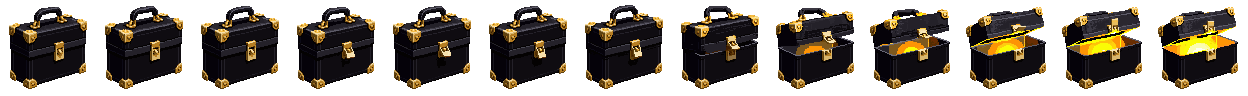
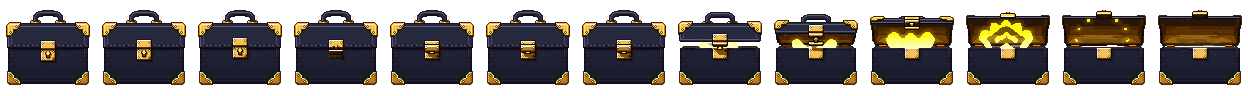
MAFIA 2 lab: case film v2 (front-facing case, light in front of the lid, solid chunky effects, full screen)

diff --git a/mafia2-lab/index.html b/mafia2-lab/index.html
@@ -122,17 +122,14 @@ h2 img.ic,h3 img.ic{vertical-align:-6px;margin-right:8px}
 .odds{margin-top:6px;display:flex;flex-wrap:wrap;gap:4px}.odds .rar{font-size:10px;padding:1px 4px}
 #caseItems{display:flex;flex-wrap:wrap;gap:4px;margin-top:8px}
 #caseItems img{width:36px;height:36px;image-rendering:pixelated;border:2px solid var(--rc);border-radius:4px;background:#fff6df}#caseItems img.lock{filter:brightness(.3)}
-#reelBox{display:none;position:absolute;left:12px;right:12px;top:21%;overflow:hidden;height:86px;border:3px solid var(--ink);border-radius:5px;background:#1a1430;z-index:3;box-shadow:0 0 0 3px #ffd25e,0 0 46px 12px rgba(255,205,90,.5)}
+#reelBox{display:none;position:absolute;left:12px;right:12px;top:21%;overflow:hidden;height:86px;border:3px solid var(--ink);border-radius:5px;background:#1a1430;z-index:3;box-shadow:0 0 0 3px #ffd25e,0 0 0 6px #1a1430,0 8px 0 6px #0b0918}
 #reelBox.on{animation:cfReel .5s cubic-bezier(.2,.9,.3,1)}
-@keyframes cfReel{0%{opacity:0;transform:translateY(90px) scaleX(.15)}100%{opacity:1;transform:none}}
-#caseFx{position:absolute;inset:0;z-index:29;display:none;overflow:hidden;background:#05040c;cursor:pointer}
+@keyframes cfReel{0%{transform:translateY(70px) scale(.2)}70%{transform:translateY(-6px) scale(1.04)}100%{transform:none}}
+#caseFx{position:fixed;inset:0;z-index:29;display:none;overflow:hidden;background:#3a3270;cursor:pointer}
 #caseFx.on{display:block;animation:cfIn .3s ease-out}
 @keyframes cfIn{0%{opacity:0}100%{opacity:1}}
-#caseCv{position:absolute;inset:0;width:100%;height:100%;image-rendering:pixelated;transform-origin:50% 62%}
-#caseFx .cbar{position:absolute;left:0;right:0;height:9%;background:#000;z-index:2}
-#caseFx .cbar.t{top:0;animation:cbT .6s cubic-bezier(.6,0,.2,1)}#caseFx .cbar.b{bottom:0;animation:cbB .6s cubic-bezier(.6,0,.2,1)}
-@keyframes cbT{0%{transform:translateY(-100%)}100%{transform:none}}@keyframes cbB{0%{transform:translateY(100%)}100%{transform:none}}
-#caseFx .cskip{position:absolute;left:0;right:0;bottom:11%;text-align:center;color:#fff;opacity:.45;z-index:3}
+#caseCv{position:absolute;inset:0;width:100%;height:100%;image-rendering:pixelated;transform-origin:50% 55%}
+#caseFx .cskip{position:absolute;left:0;right:0;bottom:calc(18px + env(safe-area-inset-bottom));text-align:center;color:#fff;opacity:.45;z-index:3}
 #reelBox.on{display:block}#reel{display:flex;gap:6px;padding:7px 0;width:max-content;will-change:transform}
 #reel .rc{flex:none;width:64px;height:66px;box-sizing:border-box;border:3px solid var(--rc);border-radius:5px;background:#fff6df;overflow:hidden}
 #reel .rc img{width:48px;height:48px;image-rendering:pixelated;display:block;margin:2px auto 0}
@@ -508,7 +505,7 @@ h2 img.ic,h3 img.ic{vertical-align:-6px;margin-right:8px}
       <div class="small wtap">Tap anywhere to close</div></div></div>
 
   <!-- OPENING A CASE: the case drops in, the lid pops, light pours out, the reel comes down out of the light. Tap to skip ahead. -->
-  <div id="caseFx"><canvas id="caseCv"></canvas><i class="cbar t"></i><i class="cbar b"></i>
+  <div id="caseFx"><canvas id="caseCv"></canvas>
     <div id="reelBox"><div id="reel"></div><i class="mark"></i></div><div class="small cskip" id="caseSkip">Tap to skip</div></div>
 
   <nav id="tabs">
@@ -579,7 +576,7 @@ SKINS.forEach(s=>{if(s.rar!=='common')s.from='Mafia Case';});
 const OWNED=new Set(SKINS.filter(s=>s.rar==='common').map(s=>s.id)); // what this player has unlocked: the common outfits to start, the rest come from the Mafia case
 const ROLE_SPR={mafia:'mafia',doctor:'doctor',jester:'jester',detective:'detective'};
 const IMG={};
-const BUILD='11120923'; // changes every push, so phones never show an old picture from their cache
+const BUILD='11120934'; // changes every push, so phones never show an old picture from their cache
 document.getElementById('buildTag').textContent='v'+BUILD; // which version this is, so an old cached copy is easy to spot
 const load=(n,src)=>new Promise((res,rej)=>{const i=new Image();i.onload=()=>{IMG[n]=i;res()};i.onerror=()=>rej(new Error('missing '+src));i.src=src+'?v='+BUILD;});
 
@@ -943,61 +940,69 @@ function openCase(){if(CASE.busy||coins<CASE.price)return;coins-=CASE.price;CASE
       else{OWNED.add(win.id);$('#caseResult').innerHTML=`NEW! ${esc(win.name)} <span class="rar ${win.rar==='common'?'':win.rar}">${win.rar.toUpperCase()}</span>`;}
       saveInv();paintSkin();setTimeout(()=>{CASE.busy=false;paintShop();caseFilmEnd();showWin(win,dupe,back);},380);}},16);});}
 /* ---------- OPENING A CASE: a little film ----------
-   The case (drawn and animated in PixelLab: assets/case/open.png, 13 frames of 96 px) drops in from above, lands with a
-   thud, the latch works loose, the lid pops and light pours out; then the reel of outfits comes down out of the light.
+   The case (drawn and animated in PixelLab, facing the camera: assets/case/open.png, 13 frames of 96 px) drops in from
+   above, lands with a thud, the latch works loose, the lid pops and light pours out; then the reel of outfits pops in.
    Drawn on its own small canvas so every pixel stays chunky. Runs off a timer, not the game loop. Tap to skip ahead. */
 const CF={on:false,t:0,tick:null,parts:[],reel:false};
-const CF_T={fall:.6,land:1.12,latch:1.7,pop:2.5,reel:3.5};
+const CF_T={fall:.45,land:.95,latch:1.5,pop:2.3,reel:3.2};
+// the case art: which frame the lid starts to lift on, the row its feet stand on, the row of its open mouth, half the mouth's width
+const CASE_ART={pop:7,foot:85,mouth:47,half:37};
 function caseFilmEnd(){CF.on=false;clearInterval(CF.tick);$('#caseFx').classList.remove('on');$('#reelBox').classList.remove('on');}
 $('#caseFx').onclick=()=>{if(CF.on&&CF.t<CF_T.reel-.1)CF.t=CF_T.reel-.1;};
-function caseFilm(startReel){const el=$('#caseFx'),c=$('#caseCv'),x=c.getContext('2d'),im=IMG.caseSheet;
+// HIS RULES (12 Nov): solid, chunky pixel shapes only (no see-through lines, cones or soft rays), the light comes out of the
+// case IN FRONT of the lid, the case faces the camera, and the scene fills the whole screen.
+function caseFilm(startReel){const el=$('#caseFx'),c=$('#caseCv'),x=c.getContext('2d'),im=IMG.caseSheet,A=CASE_ART;
   el.classList.add('on');$('#reelBox').classList.remove('on');$('#caseSkip').style.display='';
   const LW=180,LH=Math.max(200,Math.round(LW*el.clientHeight/el.clientWidth));c.width=LW;c.height=LH;x.imageSmoothingEnabled=false;
-  const NF=Math.round(im.width/96),fy=Math.round(LH*.66),cx=LW/2,my=fy-50;   // fy = the floor under the case, my = the mouth of the open case
-  Object.assign(CF,{on:true,t:0,parts:[],reel:false});let last=performance.now(),hit=false,popped=false,flash=0,fcol='255,255,255';
-  const P=(o)=>CF.parts.push(o);
+  const NF=Math.round(im.width/96),cx=LW/2,fy0=Math.round(LH*.6);
+  Object.assign(CF,{on:true,t:0,parts:[],reel:false});let last=performance.now(),hit=false,popped=false,flash=0;
+  const P=o=>CF.parts.push(o),rnd=(a,b)=>a+Math.random()*(b-a),CONF=['#7bc96f','#6fb5ff','#c58bff','#ffcf4a','#f07ab0','#ffffff'];
+  const R=(col,rx,ry,w,h)=>{x.fillStyle=col;x.fillRect(Math.round(rx),Math.round(ry),Math.round(w),Math.round(h));};
+  const star=(sx,sy,r,col)=>{sx=Math.round(sx);sy=Math.round(sy);x.fillStyle=col;x.fillRect(sx-r,sy,2*r+1,1);x.fillRect(sx,sy-r,1,2*r+1);if(r>=2)x.fillRect(sx-1,sy-1,3,3);};
+  const blob=(col,bx,by,r)=>{if(r<1)return;R(col,bx-r,by-r/2,2*r,r);R(col,bx-r/2,by-r,r,2*r);};   // a chunky round puff
   clearInterval(CF.tick);CF.tick=setInterval(()=>{const now=performance.now(),dt=Math.min(.05,(now-last)/1000);last=now;CF.t+=dt;const t=CF.t,T=CF_T;
+    const fy=fy0+Math.round(LH*.11*ease(clamp((t-T.reel+.3)/.6,0,1))),my=fy-(A.foot-A.mouth);   // the floor slides down to make room for the reel
     let cy=fy,sx=1,sy=1,frame=0,jx=0,shake=0;
-    if(t<T.fall)cy=-300;
-    else if(t<T.land){const k=(t-T.fall)/(T.land-T.fall);cy=lerp(-60,fy,k*k);sy=1.1;sx=.93;}
+    if(t<T.fall)cy=-400;
+    else if(t<T.land){const k=(t-T.fall)/(T.land-T.fall);cy=lerp(-40,fy,k*k);sy=1.12;sx=.9;}
     else{const k=t-T.land;
-      if(!hit){hit=true;flash=.55;fcol='255,255,255';for(let i=0;i<34;i++){const d=i%2?1:-1;P({k:'dust',x:cx+d*(20+Math.random()*26),y:fy-2-Math.random()*4,vx:d*(30+Math.random()*90),vy:-10-Math.random()*40,t:0,l:.5+Math.random()*.5});}}
-      if(k<.08){sy=.7;sx=1.22;}else if(k<.4){const b=(k-.08)/.32;cy=fy-Math.sin(b*Math.PI)*13;sy=1+.07*Math.sin(b*Math.PI);sx=1-.04*Math.sin(b*Math.PI);}else if(k<.47){sy=.9;sx=1.07;}
-      shake=Math.max(0,.32-k)*16;}
-    if(t>=T.latch&&t<T.pop){const k=(t-T.latch)/(T.pop-T.latch);frame=Math.min(6,Math.floor(k*7));jx=Math.round(Math.sin(t*64)*(.5+k*2.4));
-      if(Math.random()<dt*(6+k*30))P({k:'spark',x:cx+(Math.random()-.5)*60,y:my+8+Math.random()*6,vx:(Math.random()-.5)*30,vy:-20-Math.random()*40,t:0,l:.35+Math.random()*.3});}
+      if(!hit){hit=true;for(let i=0;i<10;i++){const d=i%2?1:-1;P({k:'puff',x:cx+d*rnd(26,40),y:fy-2,vx:d*rnd(50,130),vy:rnd(-34,-6),r:rnd(4,7),t:0,l:rnd(.35,.6)});}
+        for(const d of[-1,1])P({k:'star',x:cx+d*rnd(52,62),y:fy-rnd(16,34),r:3,t:0,l:.32,col:'#ffd95e'});}
+      if(k<.08){sy=.68;sx=1.24;}else if(k<.4){const b=(k-.08)/.32;cy=fy-Math.sin(b*Math.PI)*14;sy=1+.08*Math.sin(b*Math.PI);sx=1-.05*Math.sin(b*Math.PI);}else if(k<.47){sy=.88;sx=1.08;}
+      shake=k<.25?4:0;}
+    const latch=t>=T.latch&&t<T.pop;
+    if(latch){const k=(t-T.latch)/(T.pop-T.latch);frame=Math.min(A.pop-1,Math.floor(k*A.pop));jx=Math.round(Math.sin(t*64)*(.6+k*2.6));sy=1+.03*Math.sin(t*40)*k;}
     const open=t>=T.pop?t-T.pop:-1;
-    if(open>=0){frame=Math.min(NF-1,7+Math.floor(open*17));
-      if(!popped){popped=true;flash=.95;fcol='255,244,200';shake=7;for(let i=0;i<70;i++){const a=-Math.PI/2+(Math.random()-.5)*2.4,v=60+Math.random()*190;P({k:'spark',x:cx+(Math.random()-.5)*40,y:my,vx:Math.cos(a)*v,vy:Math.sin(a)*v,t:0,l:.6+Math.random()*.9,g:120});}}
-      if(Math.random()<dt*46)P({k:'spark',x:cx+(Math.random()-.5)*56,y:my+Math.random()*6,vx:(Math.random()-.5)*26,vy:-30-Math.random()*70,t:0,l:.8+Math.random()*1.1});
-      if(open<.5)shake=Math.max(shake,(.5-open)*10);}
-    // the camera: a slow push in while the latch works loose, a kick on the pop, then it settles lower to make room for the reel
-    const push=t<T.land?1:t<T.pop?1+.16*ease(clamp((t-T.land)/(T.pop-T.land),0,1)):1.16+.1*Math.max(0,1-open/.35)-.2*ease(clamp((t-T.reel+.3)/.6,0,1));
-    c.style.transform=`translateY(${(10*ease(clamp((t-T.reel+.3)/.6,0,1))).toFixed(2)}%) scale(${push.toFixed(3)})`;
-    x.setTransform(1,0,0,1,0,0);x.globalCompositeOperation='source-over';x.globalAlpha=1;x.clearRect(0,0,LW,LH);
+    if(open>=0){frame=Math.min(NF-1,A.pop+Math.floor(open*16));
+      if(!popped){popped=true;flash=2;shake=6;
+        for(let i=0;i<64;i++)P({k:'conf',x:cx+rnd(-A.half,A.half)*.7,y:my-2,vx:rnd(-130,130),vy:rnd(-360,-150),g:430,col:CONF[i%CONF.length],w:i%3?2:3,t:0,l:rnd(1.3,2.4)});
+        for(let i=0;i<8;i++)P({k:'star',x:cx+rnd(-74,74),y:my-rnd(20,120),r:2+i%3,t:-i*.04,l:.4,col:i%2?'#ffffff':'#ffd95e'});}
+      if(Math.random()<dt*13)P({k:'star',x:cx+rnd(-80,80),y:my-rnd(8,LH*.5),r:1+Math.floor(rnd(0,3)),t:0,l:rnd(.3,.5),col:Math.random()<.5?'#ffffff':'#fff2a8'});
+      if(Math.random()<dt*9)P({k:'conf',x:cx+rnd(-A.half,A.half)*.6,y:my-2,vx:rnd(-70,70),vy:rnd(-260,-140),g:430,col:CONF[Math.floor(rnd(0,CONF.length))],w:2,t:0,l:rnd(1.2,2)});
+      if(open<.3)shake=Math.max(shake,3);else if(open<.36)sy=.94;}
+    // the camera pushes in while the latch works loose, kicks on the pop, and eases back for the reel
+    const push=t<T.land?1:t<T.pop?1+.14*ease(clamp((t-T.land)/(T.pop-T.land),0,1)):1.14+.08*Math.max(0,1-open/.3)-.14*ease(clamp((t-T.reel+.3)/.6,0,1));
+    c.style.transform=`scale(${push.toFixed(3)})`;
+    x.setTransform(1,0,0,1,0,0);R('#3a3270',-8,-8,LW+16,LH+16);   // a plain purple stage, light enough that the dark case stands out
     if(shake>0)x.translate(Math.round((Math.random()-.5)*shake),Math.round((Math.random()-.5)*shake));
-    // a spotlight from above, and the floor it lands on
-    const lit=clamp(t/.5,0,1);x.fillStyle=`rgba(255,226,170,${.05*lit})`;x.beginPath();x.moveTo(cx-16,-4);x.lineTo(cx+16,-4);x.lineTo(cx+78,fy+6);x.lineTo(cx-78,fy+6);x.fill();
-    x.fillStyle=`rgba(255,226,170,${.09*lit})`;x.beginPath();x.ellipse(cx,fy+2,80,13,0,0,7);x.fill();
-    if(open>=0){const g=clamp(open/.5,0,1),sw=1+.08*Math.sin(t*5);x.globalCompositeOperation='lighter';
-      // light pouring out: turning rays, a column going up, a ball of glow at the mouth
-      const L=(60+260*ease(g))*sw;for(let i=0;i<14;i++){const a=i/14*Math.PI*2+t*.35,w=.085+.03*Math.sin(i*2.7);x.fillStyle=`rgba(255,${190+(i%3)*18},90,${(.1+.05*(i%2))*g})`;
-        x.beginPath();x.moveTo(cx,my);x.lineTo(cx+Math.cos(a-w)*L,my+Math.sin(a-w)*L);x.lineTo(cx+Math.cos(a+w)*L,my+Math.sin(a+w)*L);x.fill();}
-      const cw=(16+26*g)*sw,gr=x.createLinearGradient(0,my,0,my-LH*.75);gr.addColorStop(0,`rgba(255,236,160,${.5*g})`);gr.addColorStop(1,'rgba(255,220,120,0)');x.fillStyle=gr;
-      x.beginPath();x.moveTo(cx-cw,my);x.lineTo(cx+cw,my);x.lineTo(cx+cw*2.6,my-LH*.75);x.lineTo(cx-cw*2.6,my-LH*.75);x.fill();
-      const R=(26+70*ease(g))*sw,rg=x.createRadialGradient(cx,my,0,cx,my,R);rg.addColorStop(0,`rgba(255,250,215,${.85*g})`);rg.addColorStop(.4,`rgba(255,205,90,${.42*g})`);rg.addColorStop(1,'rgba(255,170,40,0)');x.fillStyle=rg;x.fillRect(cx-R,my-R,2*R,2*R);
-      x.globalCompositeOperation='source-over';}
-    // its shadow, tighter and darker as it comes down
-    {const h=clamp((fy-cy)/260,0,1);x.fillStyle=`rgba(0,0,0,${.5*(1-h)*lit})`;x.beginPath();x.ellipse(cx,fy-1,44*(1-h*.6),7*(1-h*.5),0,0,7);x.fill();}
-    if(t>=T.fall&&t<T.land)for(let i=0;i<5;i++){x.fillStyle=`rgba(255,255,255,${.1+.05*i})`;x.fillRect(Math.round(cx-34+i*17),Math.round(cy-96-18-i%2*10),1,14);}   // speed lines
-    const dw=Math.round(96*sx),dh=Math.round(96*sy);x.drawImage(im,frame*96,0,96,96,Math.round(cx-dw/2)+jx,Math.round(cy-89*sy),dw,dh);
-    for(let i=CF.parts.length-1;i>=0;i--){const q=CF.parts[i];q.t+=dt;if(q.t>q.l){CF.parts.splice(i,1);continue;}const k=q.t/q.l;
-      if(q.k==='dust'){q.x+=q.vx*dt;q.y+=q.vy*dt;q.vx*=.93;q.vy+=60*dt;x.fillStyle=`rgba(214,200,180,${.7*(1-k)})`;const s=k<.5?3:2;x.fillRect(Math.round(q.x),Math.round(q.y),s,s);}
-      else{q.x+=q.vx*dt;q.y+=q.vy*dt;q.vy+=(q.g||0)*dt;q.vx*=.985;x.fillStyle=k<.3?'#ffffff':k<.7?'#ffe68a':'#ffb347';x.globalAlpha=1-k*k;const s=k<.6?2:1;x.fillRect(Math.round(q.x),Math.round(q.y),s,s);x.globalAlpha=1;}}
-    // the light swells until it fills the screen, and the reel comes out of it
-    const wo=clamp((t-(T.reel-.45))/.45,0,1)*(1-clamp((t-T.reel)/.5,0,1));
-    if(wo>0){x.setTransform(1,0,0,1,0,0);x.fillStyle=`rgba(255,240,190,${.9*wo})`;x.fillRect(0,0,LW,LH);}
-    if(flash>0){x.setTransform(1,0,0,1,0,0);x.fillStyle=`rgba(${fcol},${flash})`;x.fillRect(0,0,LW,LH);flash=Math.max(0,flash-dt*3.2);}
+    if(open>=0){   // behind the case: a two-colour sunburst that grows out from it and slowly turns
+      const g=ease(clamp(open/.5,0,1)),L=g*(LW+LH),rot=t*.22;x.fillStyle='#4a4096';x.beginPath();x.arc(cx,my,L,0,7);x.fill();x.fillStyle='#5d52b4';
+      for(let i=0;i<9;i++){const a=i/9*Math.PI*2+rot,w=Math.PI/18;x.beginPath();x.moveTo(cx,my);x.lineTo(cx+Math.cos(a-w)*L,my+Math.sin(a-w)*L);x.lineTo(cx+Math.cos(a+w)*L,my+Math.sin(a+w)*L);x.fill();}}
+    R('#2b2558',-8,fy-12,LW+16,LH);R('#221d48',-8,fy-12,LW+16,2);   // the floor
+    {const h=clamp((fy-cy)/300,0,1),rx=Math.round(46*(1-h*.55));R('#17132e',cx-rx,fy-3,2*rx,7);R('#17132e',cx-rx+5,fy-5,2*rx-10,11);}   // its shadow on the floor
+    const dw=Math.round(96*sx),dh=Math.round(96*sy);x.drawImage(im,frame*96,0,96,96,Math.round(cx-dw/2)+jx,Math.round(cy-A.foot*sy),dw,dh);
+    if(latch&&Math.floor(t/.09)%2){   // comic shake marks either side while the latch works loose
+      for(const d of[-1,1]){R('#ffffff',cx+d*56-(d<0?6:0),my-6,6,2);R('#ffffff',cx+d*60-(d<0?8:0),my+8,8,2);R('#ffffff',cx+d*56-(d<0?5:0),my+22,5,2);}}
+    if(open>=0){   // THE LIGHT: three solid bands pouring up out of the mouth, drawn after the case so it is in front of the lid
+      const h=ease(clamp(open/.25,0,1)),top=my-(my+12)*h,wob=[0,2,-1,1,-2,1][Math.floor(t/.07)%6],pulse=Math.round(Math.sin(t*7)*2);
+      for(const[col,f]of[['#ff9f3a',1],['#ffd24a',.72],['#fff3b8',.4]])for(let y=my;y>top;y-=4){const d=my-y,hw=((A.half-8)+d*.2+(d>8?wob+pulse:0))*f;R(col,cx-hw,y-4,2*hw,4);}
+      R('#fff3b8',cx-A.half+2,my-2,2*A.half-4,3);R('#ffffff',cx-A.half*.5,my-3,A.half,3);}
+    for(let i=CF.parts.length-1;i>=0;i--){const q=CF.parts[i];q.t+=dt;if(q.t<0)continue;if(q.t>q.l){CF.parts.splice(i,1);continue;}const k=q.t/q.l;
+      if(q.k==='puff'){q.x+=q.vx*dt;q.y+=q.vy*dt;q.vx*=.9;blob('#e9dcc0',q.x,q.y,Math.round(q.r*(1-k)));}
+      else if(q.k==='star')star(q.x,q.y,Math.round(q.r*Math.sin(Math.PI*k)),q.col);
+      else{q.x+=q.vx*dt;q.y+=q.vy*dt;q.vy+=q.g*dt;q.vx*=.99;if(q.y>fy+8&&q.vy>0){q.y=fy+8;q.vy*=-.35;q.vx*=.6;}
+        if(k<.85||Math.floor(q.t/.06)%2)R(q.col,q.x,q.y,Math.floor(q.t/.1+q.w)%2?q.w:1,q.w);}}
+    if(flash>0){x.setTransform(1,0,0,1,0,0);R('#fff3b8',0,0,LW,LH);flash--;}
     if(t>=T.reel&&!CF.reel){CF.reel=true;$('#caseSkip').style.display='none';startReel();}
   },16);}
 /* ---------- the win pop-up ----------
